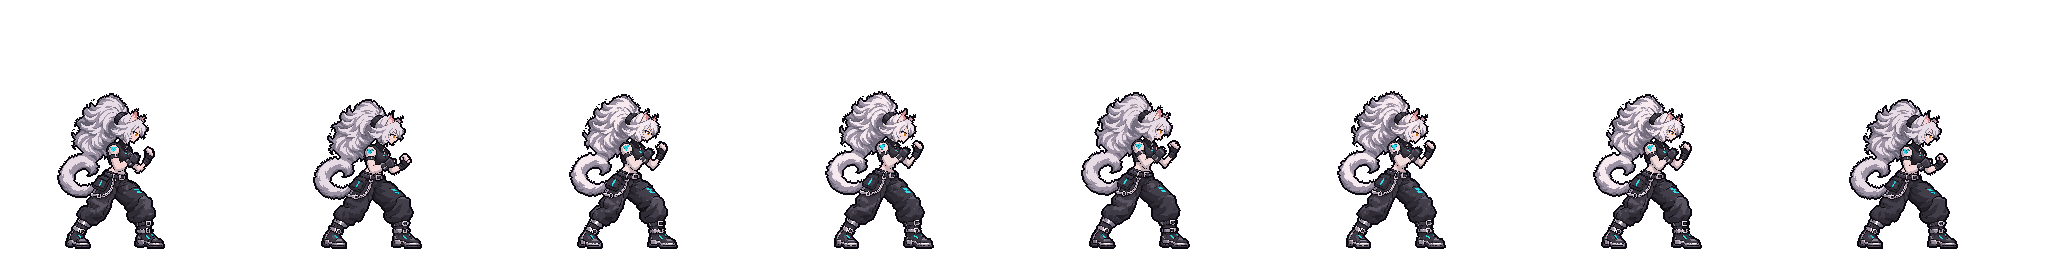
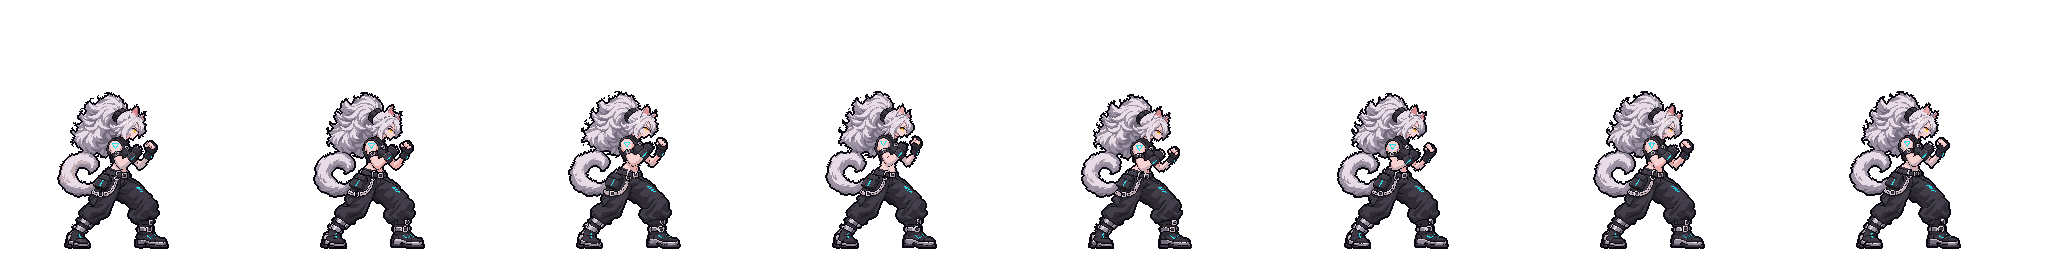
feat(feline) : la garde vient des 8 frames nettes du développeur
Les 8 frames de garde (Felina.rar) sont la nouvelle référence de qualité :
contour noir franc, lignes intérieures, aplats propres. Elles sont réduites à
l'échelle du jeu (×0,128, 157 px de haut) sur un ancrage commun, pour que les
pieds ne bougent pas. Le contour d'encre est épaissi à 2 px.

Claude-Session: https://claude.ai/code/session_01JBLzLMjZS6VPwWpKajS2YB

diff --git a/src/art/feline/cells.ts b/src/art/feline/cells.ts
@@ -7,18 +7,18 @@ import type { Cell } from '../types';
  */
 export const FELINE_CELLS: Readonly<Record<string, Cell>> = {
   idle: {
-    width: 113,
+    width: 117,
     height: 162,
-    anchor: { x: 73, y: 159 },
+    anchor: { x: 74, y: 159 },
     frames: [
-      { x: 2, y: 4, width: 108, height: 156 },
-      { x: 2, y: 10, width: 109, height: 150 },
-      { x: 2, y: 5, width: 109, height: 155 },
-      { x: 2, y: 2, width: 109, height: 158 },
-      { x: 2, y: 3, width: 109, height: 157 },
-      { x: 2, y: 2, width: 109, height: 158 },
-      { x: 2, y: 5, width: 109, height: 155 },
-      { x: 2, y: 10, width: 109, height: 150 },
+      { x: 3, y: 3, width: 112, height: 157 },
+      { x: 3, y: 3, width: 112, height: 157 },
+      { x: 2, y: 2, width: 113, height: 158 },
+      { x: 3, y: 2, width: 112, height: 158 },
+      { x: 3, y: 5, width: 111, height: 155 },
+      { x: 3, y: 4, width: 112, height: 156 },
+      { x: 3, y: 2, width: 112, height: 158 },
+      { x: 3, y: 2, width: 112, height: 158 },
     ],
   },
   walkForward: {
